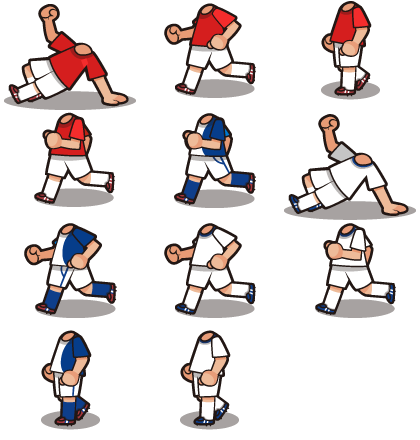
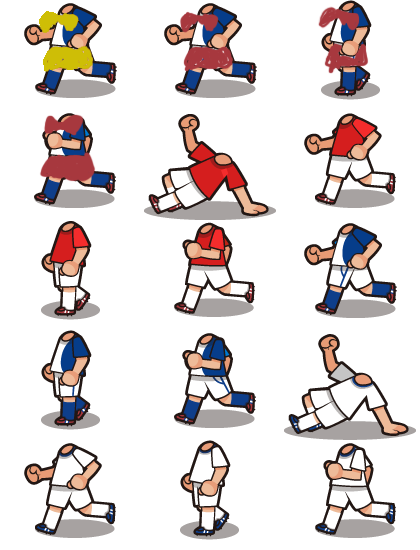
added rabbit player

diff --git a/app/games/player-config.js b/app/games/player-config.js
@@ -4,20 +4,20 @@ function (Crafty) {
 
     PlayerConfig.head_configs = {
         messi : {
-            sprite : [2, 2],
-			cry : [2, 1],
+            sprite : [0, 3],
+			cry : [2, 2],
         },
         neymar : {
 		    sprite : [1, 2]
         },
         ozil : {
-            sprite : [1, 1] 
+            sprite : [0, 2] 
         },
         ribery : {
-            sprite : [2, 0] 
+            sprite : [1, 1] 
         },
         robben : {
-            sprite : [1, 0] 
+            sprite : [0, 1] 
         },
         rooney : {
             sprite : [0, 2] 
@@ -28,6 +28,9 @@ function (Crafty) {
         sushi : {
             sprite : [0, 0] 
         },
+		rabbit : {
+			sprite : [2, 1]
+		}
     };
 
 	PlayerConfig.worldclass_players = [
@@ -37,22 +40,28 @@ function (Crafty) {
         PlayerConfig.head_configs.robben,
         PlayerConfig.head_configs.rooney,
         PlayerConfig.head_configs.suarez,
+        PlayerConfig.head_configs.rabbit,
 	];
 
     PlayerConfig.body_configs = {
         messi : {
             sprite : 'BodyMessi',
-            runFrames : [[0,2], [0,3], [1, 1], [0,3]]
+            runFrames : [[2,2], [0,3], [1, 3], [0,3]]
         },
         amateur : {
             sprite : 'BodyAmateur',
-            runFrames : [[1,2], [1,3], [2,2], [1,3]],
-			tackleFrames : [[2, 1]]
+            runFrames : [[0,4], [1,4], [2,4], [1,4]],
+			tackleFrames : [[2, 3]]
         },
         worldclass : {
             sprite : 'BodyPro',
+            runFrames : [[2,1], [0,2], [1,2], [0,2]],
+			tackleFrames : [[1, 1]]
+		},
+		rabbit : {
+            sprite : 'BodyRabbit',
             runFrames : [[1,0], [2,0], [0,1], [2,0]],
-			tackleFrames : [[0, 0]]
+			tackleFrames : [[2, 3]]
 		},
     };
 

diff --git a/app/games/scene-game.js b/app/games/scene-game.js
@@ -30,7 +30,10 @@ Crafty.scene('Game', function() {
 	self.worldclassCreator = function() {
 		var seed = Math.floor(Crafty.math.randomNumber(0, PlayerConfig.worldclass_players.length));
 		var head = PlayerConfig.worldclass_players[seed];
-		return Crafty.e('WorldClass').WorldClass(head, PlayerConfig.body_configs.worldclass);
+		var body = head === PlayerConfig.head_configs.rabbit ? 
+			                    PlayerConfig.body_configs.rabbit :
+								PlayerConfig.body_configs.worldclass;
+		return Crafty.e('WorldClass').WorldClass(head, body);
 	};
 
 	//self.randomizerEven = Crafty.e('ObjectRandomizer').ObjectRandomizer(

diff --git a/app/games/scene-loading.js b/app/games/scene-loading.js
@@ -38,7 +38,8 @@ Crafty.scene('Loading', function(){
 		Crafty.sprite(140, 110, 'app/img/bodies.png', {
 			BodyMessi:     [1, 1],
 			BodyAmateur:   [1, 2],
-			BodyPro:       [1, 0]
+			BodyPro:       [1, 0],
+			BodyRabbit:    [0, 1]
 		});
 
 		Crafty.sprite(320, 145, 'app/img/grassx4.png', {
